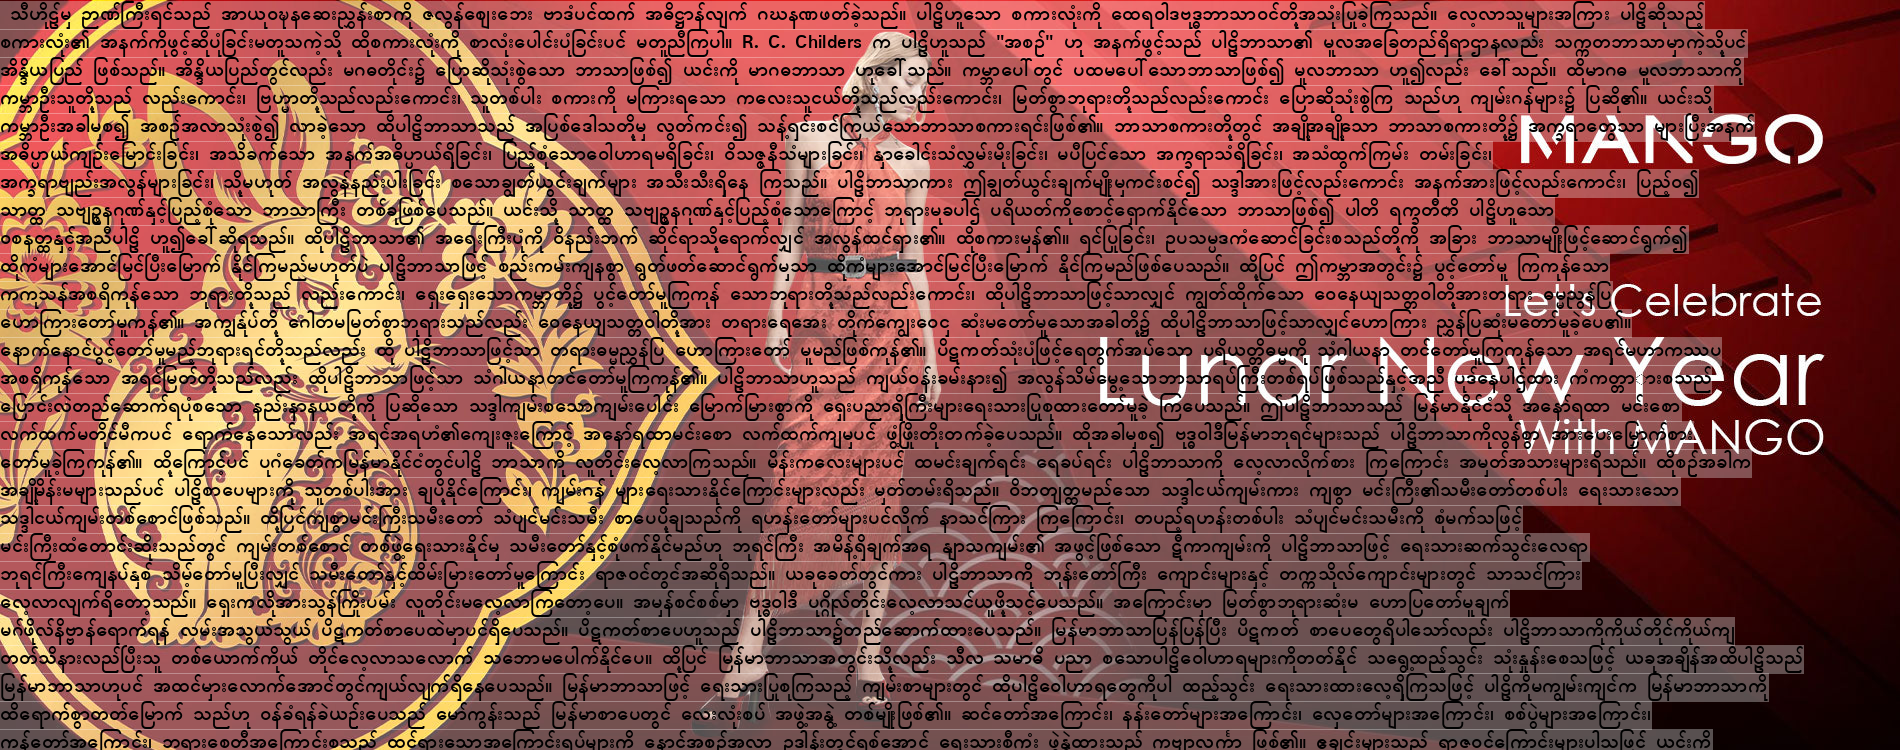
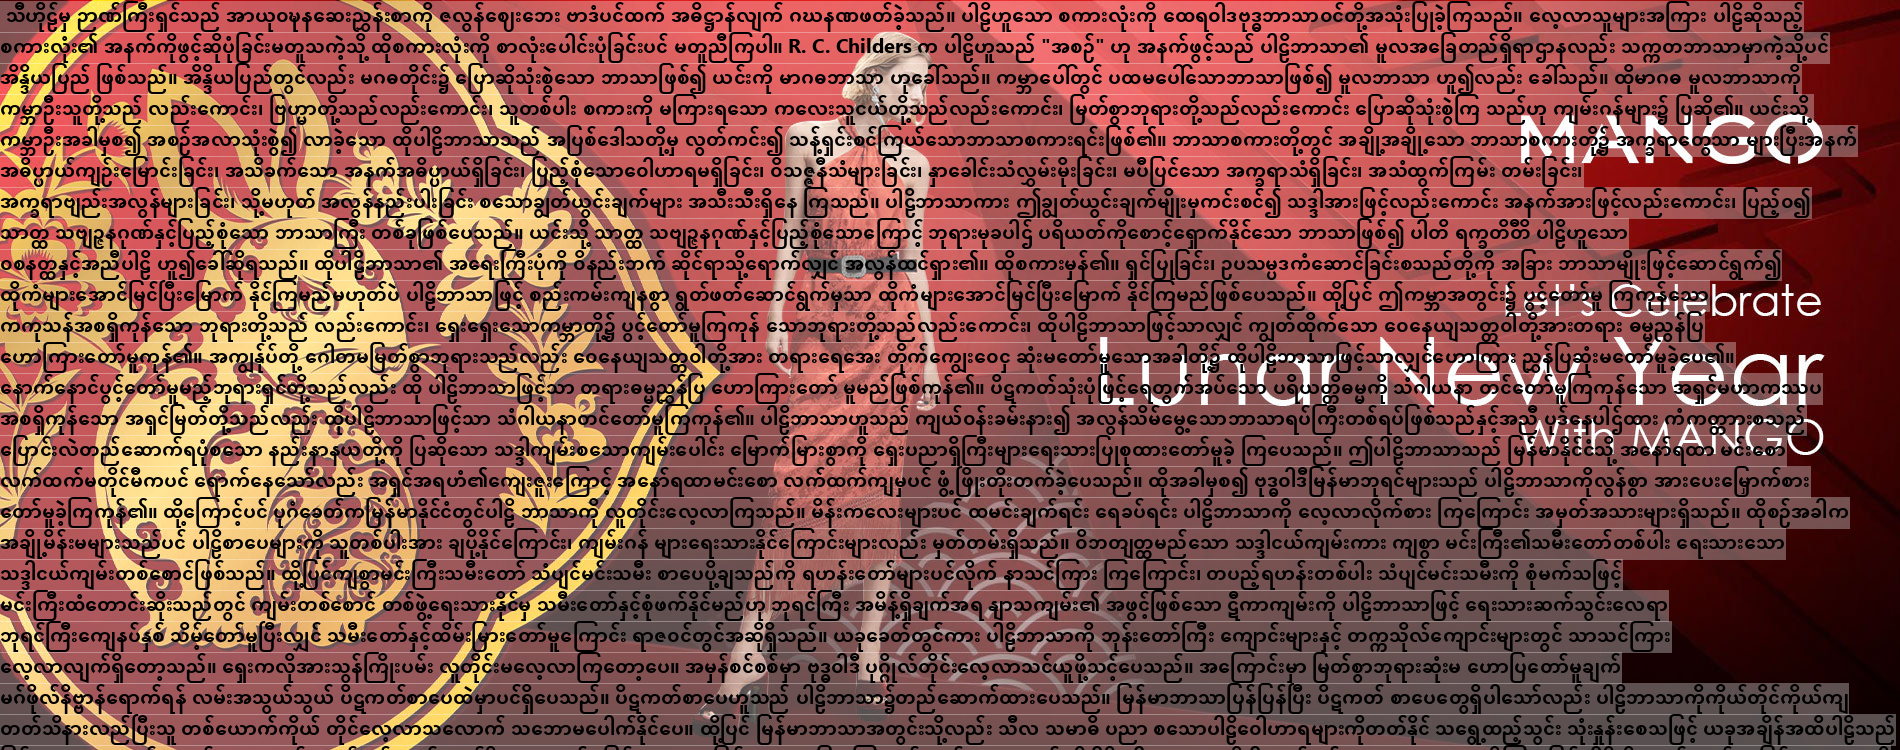
fix:font mmbtext

diff --git a/main.py b/main.py
@@ -22,7 +22,7 @@ exampleText = """
 def main(myanmarText):
     original = Image.open("mango-lunar-banner.jpg")
     draw = ImageDraw.Draw(original,"RGBA")
-    font = ImageFont.truetype("Padauk-bold.ttf", 20)
+    font = ImageFont.truetype("mmrtextb.ttf", 20)
     margin = offset = 0
     for line in textwrap.wrap(myanmarText, width=200):
         bbox = draw.textbbox((margin, offset), line, font=font)
